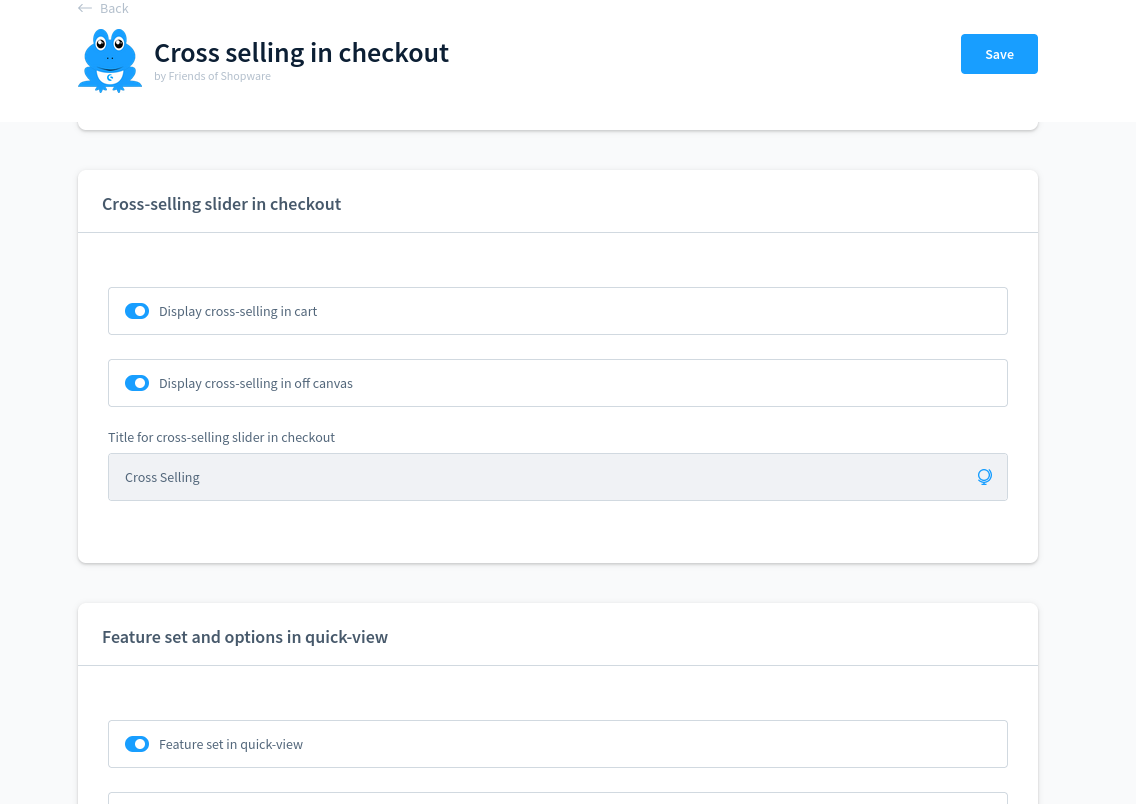
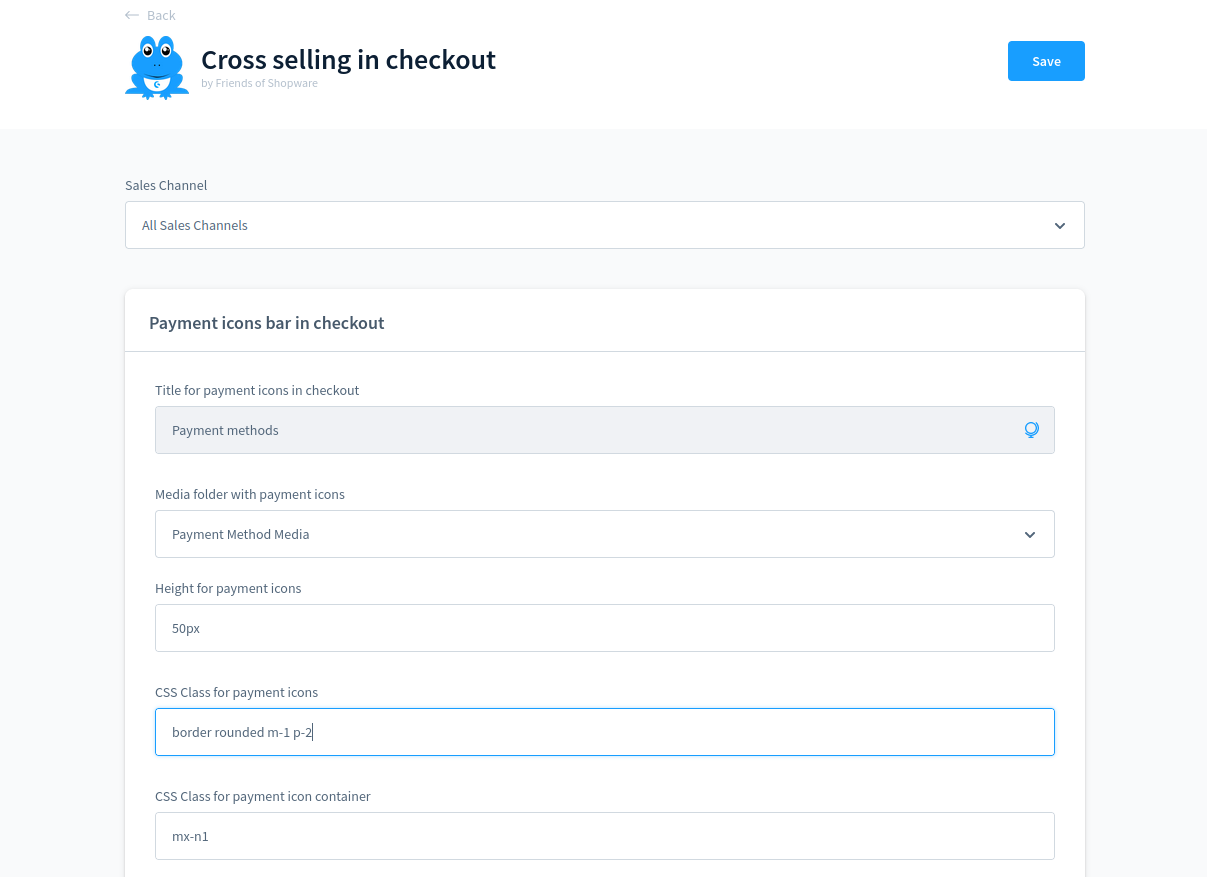
Improve readme

diff --git a/README.md b/README.md
@@ -5,9 +5,14 @@ Improve conversion in checkout. Adds some features in the shopware checkout.
 Thanks to netformic GmbH for time to create it.
 
 ## Features
+### Cross Selling
 ![Cross Selling](screnshots/cross_selling.png "Cross Selling")
+### Checkout Facts
 ![Checkout Facts](screnshots/facts.png "Checkout Facts")
-![Quick-view](screnshots/cross_selling.png "Quick-view")
+### Feature set and options in quick-view
+![Quick-view](screnshots/quickview.png "Quick-view")
+### Payment Icons
+![Payment Icons](screnshots/payment.png "Payment Icons")
 
 ## Configs
 ![Config #1](screnshots/config1.png)
